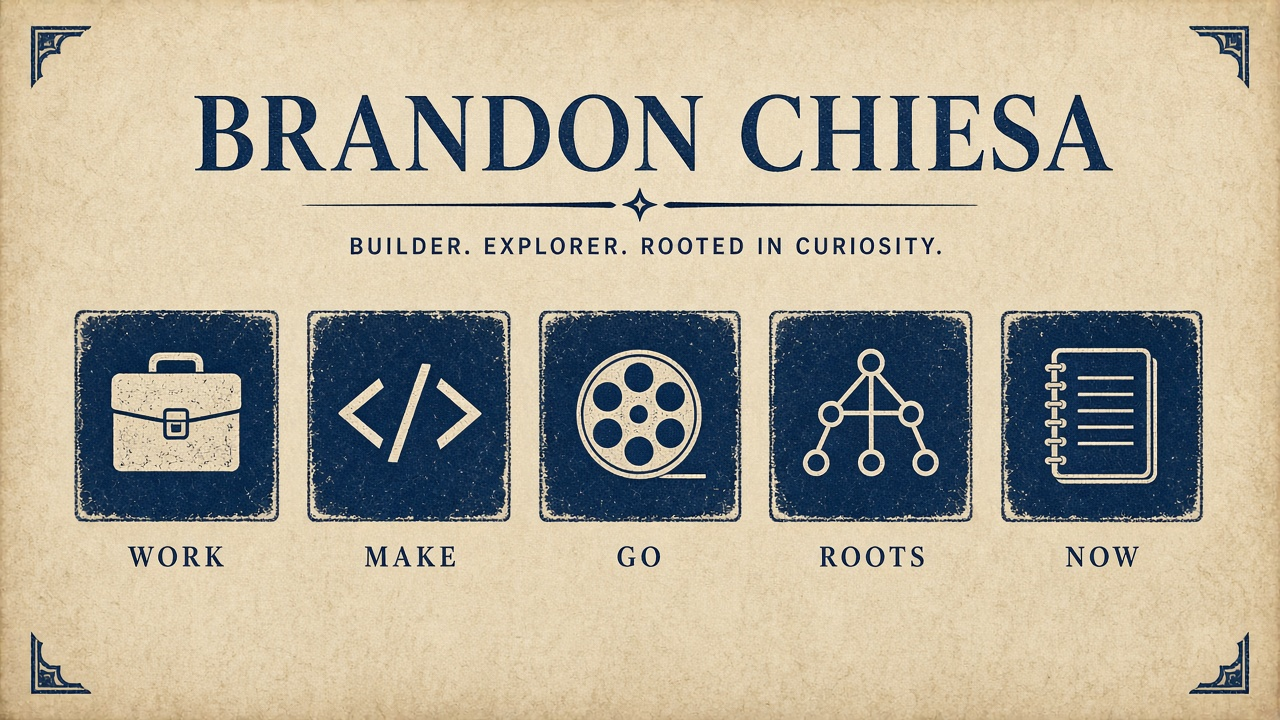
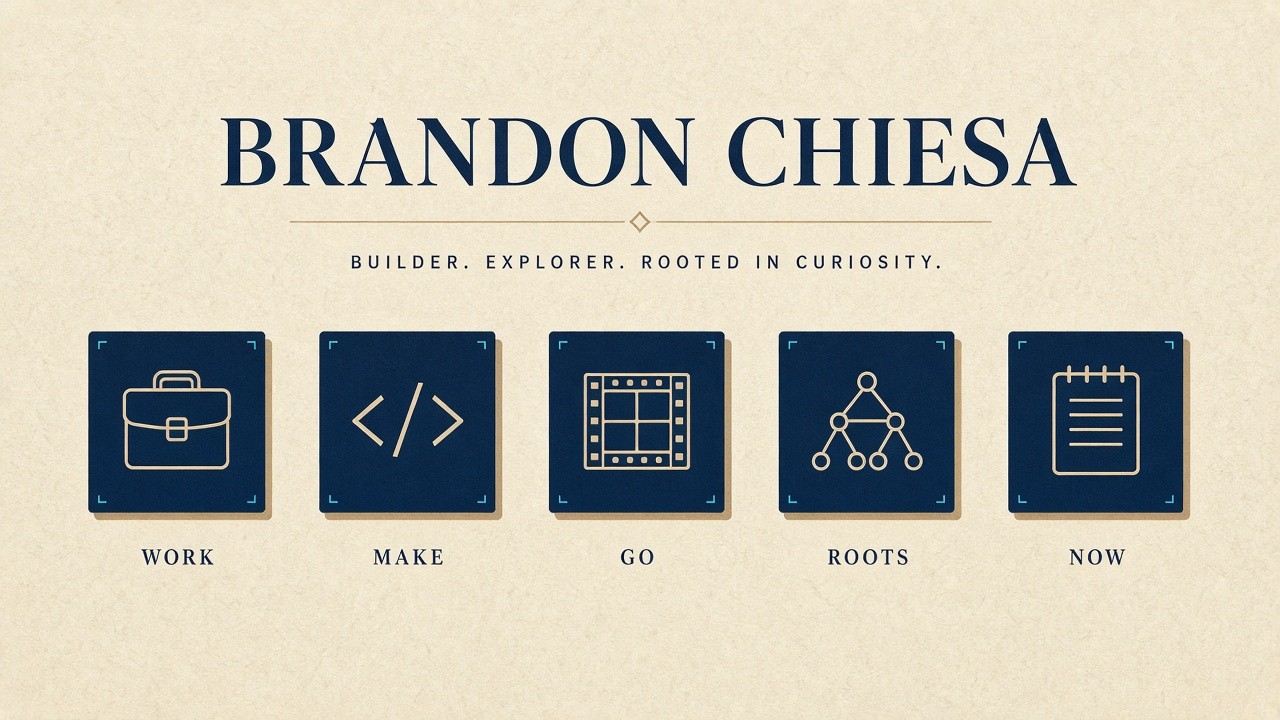
Wire locked Look v2 intro, menu, and room hero plates
Replace stale Coast/Piedmont/Blue Ridge and room heroes, add the
missing Roots hero and mobile door plate, and keep an identical
intro_01_newport_news alias. Interactive doors stay horizontal on
desktop; narrow viewports also show the vertical menu plate.
Deploy workflow can run from this PR branch so Pages can preview
without merging once Actions Pages is enabled.

diff --git a/src/lib/art.ts b/src/lib/art.ts
@@ -2,16 +2,21 @@ import type { RoomId } from "./site";
 import { withBase } from "./site";
 
 /**
- * Look v2 asset hooks. Swap Pixel→Ink finals onto these exact public/ paths.
+ * Look v2 asset hooks. Swap finals onto these exact public/ paths.
  * Do not rename — components read only these filenames.
  */
 export const ART = {
   intro: {
     coast: "art/intro_01_coast.png",
+    /** Same pixels as coast — kept for older filename references. */
+    newportNews: "art/intro_01_newport_news.png",
     piedmont: "art/intro_02_piedmont.png",
     blueridge: "art/intro_03_blueridge.png",
   },
+  /** Locked desktop look reference / fallback. Interactive doors use `doors`. */
   menuDesktop: "art/menu_doors_desktop.png",
+  /** Vertical door plate for narrow viewports. */
+  menuMobile: "art/menu_doors_mobile.png",
   doors: {
     work: "art/door_work.png",
     make: "art/door_make.png",
@@ -30,11 +35,9 @@ export const ART = {
     work: "art/room_hero_work.png",
     make: "art/room_hero_make.png",
     go: "art/room_hero_go.png",
+    roots: "art/room_hero_roots.png",
   } satisfies Partial<Record<RoomId, string>>,
 } as const;
-
-/** Pixel QA HOLD — names only. Do not import these into components. */
-export const ART_HOLD_NAMES = ["menu_doors_mobile.png", "room_hero_roots.png"] as const;
 
 export function artUrl(rel: string): string {
   return withBase(rel);

diff --git a/src/styles/global.css b/src/styles/global.css
@@ -290,7 +290,29 @@ button {
   color: var(--ink-soft);
 }
 
-/* Primary layout is a horizontal door row (wireframe). Phones scroll; 700px+ shows all five. */
+.menu-composite {
+  display: none;
+  width: min(100%, 22rem);
+  margin: 1.5rem 0 0;
+}
+
+.menu-composite img {
+  width: 100%;
+  height: auto;
+  border: 1px solid var(--line-strong);
+}
+
+.menu-composite--mobile {
+  display: block;
+}
+
+@media (min-width: 700px) {
+  .menu-composite--mobile {
+    display: none;
+  }
+}
+
+/* Primary layout is a horizontal door row. Phones scroll; 700px+ shows all five. */
 .doors {
   list-style: none;
   width: min(100%, 64rem);

diff --git a/README.md b/README.md
@@ -2,11 +2,11 @@
 
 Personal house-with-rooms site. Tech × Renaissance.
 
-**Look v2 is LOCKED:** blues + tans (navy / parchment / sparse clay / tiffany HUD — no greens) and a place-accurate westbound intro (Newport News Peninsula → James River piedmont → Blue Ridge). Pixel→Ink finals drop onto `public/art/` using the filenames in `src/lib/art.ts`. This scaffold does not wait on art.
+**Look v2 is LOCKED:** blues + tans (navy / parchment / sparse clay / tiffany HUD — no greens) and a place-accurate westbound intro (Newport News Peninsula → James River piedmont → Blue Ridge). Production plates live in `public/art/` using the filenames in `src/lib/art.ts`.
 
 **This is a personal website. It is not affiliated with, and does not represent, First Citizens Bank.**
 
-Expected GitHub Pages URL (after the Actions workflow has run on `main`):
+Expected GitHub Pages URL (after Pages is enabled and the deploy workflow has run):
 
 **https://bkchiesa.github.io/brandonchiesa-site/**
 
@@ -34,38 +34,40 @@ npm run preview
 
 ## GitHub Pages
 
-This repo is configured for **GitHub Actions** → Pages (Astro static `dist/`).
+This repo is configured for **GitHub Actions** → Pages (Astro static `dist/`). `astro.config.mjs` sets `site` to `https://bkchiesa.github.io` and `base` to `/brandonchiesa-site`.
 
-1. In the repo: **Settings → Pages → Source: GitHub Actions**.
-2. Merge this scaffold to `main` (or run the **Deploy to GitHub Pages** workflow from `main` via `workflow_dispatch`).
+Pages is **not enabled on the repo yet** (the Pages API still 404s). After a maintainer sets **Settings → Pages → Source: GitHub Actions**:
+
+1. Open **Actions → Deploy to GitHub Pages**.
+2. **Run workflow** and choose this PR branch `cursor/personal-site-scaffold-c518` (or `main` after merge).
 3. The first deploy creates the `github-pages` environment. The site is then at  
    `https://bkchiesa.github.io/brandonchiesa-site/`.
 
-The workflow lives at `.github/workflows/deploy.yml`. It does **not** deploy from this PR branch until it is on `main`.
+Push to `main` or to `cursor/personal-site-scaffold-c518` also triggers the workflow. This PR is not merged.
 
-`astro.config.mjs` sets `site` to `https://bkchiesa.github.io` and `base` to `/brandonchiesa-site`.
+The workflow lives at `.github/workflows/deploy.yml`.
 
 ## v1 rooms
 
 | Door | What shipped |
 | --- | --- |
 | **Intro** | ~10s **crossfade** of `public/art/intro_01_coast.png` → `intro_02_piedmont.png` → `intro_03_blueridge.png` (Newport News Peninsula → James River piedmont → Blue Ridge). Honors `prefers-reduced-motion`. Visible **Skip intro**. |
-| **Menu** | `[BRANDON CHIESA]`, tagline, **horizontal** row of clickable `door_*.png` plates (icons wired in room headers). Narrow phones scroll the row — the held `menu_doors_mobile.png` strip is **not** used. |
+| **Menu** | `[BRANDON CHIESA]`, tagline, **horizontal** row of clickable `door_*.png` plates (desktop primary). Narrow phones also show `menu_doors_mobile.png` and can swipe the door row. `menu_doors_desktop.png` is the locked look reference / fallback. Icons are wired in room headers. |
 | **Work** | Education, career path, community — public facts only. Bank disclaimer in the footer. |
 | **Make** | Hero card for [Sensei Moose’s Dojo](https://bkchiesa.github.io/Sensei-mooses-dojo/). Other cards are placeholders. |
 | **Go** | Film-strip placeholders. Privacy-enhanced YouTube embed ready (`youtube-nocookie.com`); channel links for `@brandonchiesa3886` and `@chiesab`. Video IDs TBD. |
-| **Roots** | Map + tree wireframes. Copy stubs: Valmozzola → Chicago → Virginia. |
+| **Roots** | Locked `room_hero_roots.png` (Valmozzola → Virginia). Map + tree wireframes. Copy stubs: Valmozzola → Chicago → Virginia. |
 | **Now** | Empty field notes stub. |
 
-Art swap: overwrite the files in `public/art/` (same names). No component changes needed. Held names (`menu_doors_mobile.png`, `room_hero_roots.png`) stay unwired until Pixel QA clears them.
+Art swap: overwrite the files in `public/art/` (same names). Menu mobile plate and Roots hero are live.
 
 ## Palette (locked)
 
 Navy `--navy`, parchment `--parchment`, sparse clay `--clay`, tiffany HUD `--tiffany`. No green foliage or green HUD.
 
-## Art hold
+## Art
 
-Do not display `menu_doors_mobile.png` or `room_hero_roots.png` (Pixel QA). Roots hero is a parchment stub.
+Locked Look v2 plates live in `public/art/`. Door/icon plates drive the interactive menu; room pages use `room_hero_*`.
 
 ## SEO / agents
 

diff --git a/public/art/README.md b/public/art/README.md
@@ -1,22 +1,26 @@
 # Art swap hooks (Look v2 locked)
 
-Pixel→Ink finals go here. Overwrite the file; keep the name. `src/lib/art.ts` is the contract.
+Pixel/Guido cleared plates live here. Overwrite the file; keep the name. `src/lib/art.ts` is the contract.
+
+Navy / parchment / clay / tiffany. No greens.
 
 ## Intro (crossfade 1→2→3)
 
 | File | Beat |
 | --- | --- |
 | `intro_01_coast.png` | Newport News / Virginia Peninsula |
+| `intro_01_newport_news.png` | Same pixels as coast (alias) |
 | `intro_02_piedmont.png` | James River piedmont |
 | `intro_03_blueridge.png` | Blue Ridge |
 
-## Menu (horizontal row)
+## Menu (horizontal row desktop-first)
 
 | File | Use |
 | --- | --- |
 | `door_work.png` `door_make.png` `door_go.png` `door_roots.png` `door_now.png` | Clickable door plates |
 | `icon_work.png` `icon_make.png` `icon_go.png` `icon_roots.png` `icon_now.png` | Room header icons |
-| `menu_doors_desktop.png` | Desktop strip reference (optional) |
+| `menu_doors_desktop.png` | Locked desktop look reference / fallback |
+| `menu_doors_mobile.png` | Vertical plate on narrow viewports |
 
 ## Room heroes
 
@@ -25,12 +29,4 @@ Pixel→Ink finals go here. Overwrite the file; keep the name. `src/lib/art.ts` 
 | `room_hero_work.png` | Work |
 | `room_hero_make.png` | Make |
 | `room_hero_go.png` | Go |
-
-Roots hero is a parchment stub until a cleared plate lands. Add `room_hero_roots.png` and wire it in `ART.heroes` only after Pixel QA.
-
-## HOLD — do not ship in UI
-
-- `menu_doors_mobile.png` — broken crop. Phones use the CSS door row.
-- `room_hero_roots.png` — label glitch.
-
-Look v2 tokens stay navy / parchment / clay / tiffany. No greens.
+| `room_hero_roots.png` | Roots |
